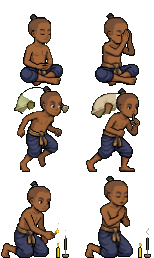
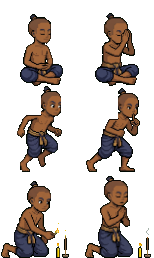
คำอธิบายอาชีพแสดงเฉพาะยศที่เป็นอยู่และยศถัดไป, ลบกระสอบที่ติดมาในท่าย่อง
Claude-Session: https://claude.ai/code/session_01VyskKiPGXbguATD8hfHETA

diff --git a/src/game/main.ts b/src/game/main.ts
@@ -416,28 +416,23 @@ function showAway() {
   awayInfo = null;
 }
 
-/** แผ่นอาชีพ: คำอธิบายสาย + ทุกยศพร้อมคำอธิบาย (สลับทางสว่าง/มืด) */
-function careerSheet(k: string, choose = true, side: 'light' | 'dark' = 'light'): string {
+/** แผ่นอาชีพ: คำอธิบายสาย + ยศที่เป็นอยู่ (และยศถัดไป) — ตอนเลือกอาชีพแสดงยศแรก */
+function careerSheet(k: string, choose = true): string {
   const c = careerOf(k), L = g.life, mine = L.career === k;
-  const myTrack = mine ? (L.track ?? 'light') : null;
-  const rank = (lv: number, tr: 'light' | 'dark') => {
-    const [name, desc] = splitTitle(E.careerTitle(k, lv, tr));
-    const cur = mine && L.level === lv && (lv < B.lightDarkLevel || myTrack === tr);
-    const got = g.collection.titles.includes(`${k}|${lv < B.lightDarkLevel ? 'ร่วม' : tr}|${lv}`) || (mine && lv === 0);
-    return `<li class="${cur ? 'on' : ''} ${got ? 'got' : ''}"><small>${lv === 0 ? 'เริ่ม' : `ขั้น ${th(lv)}`}${cur ? ' · ตอนนี้' : got ? ' · เคยได้' : ''}</small><b>${esc(name)}</b>${desc ? `<p>${esc(desc)}</p>` : ''}</li>`;
+  const rank = (lv: number, label: string, on = false) => {
+    const [name, desc] = splitTitle(E.careerTitle(k, lv, L.track));
+    return `<li class="${on ? 'on' : ''}"><small>${label}</small><b>${esc(name)}</b>${desc ? `<p>${esc(desc)}</p>` : ''}</li>`;
   };
-  const ranks = [0, 1].map(lv => rank(lv, side)).join('') + `<li class="fork">${icon(side === 'light' ? 'star' : 'hood', 16)} แยกทาง${side === 'light' ? 'สว่าง' : 'มืด'}ตั้งแต่ขั้น ${th(B.lightDarkLevel)}</li>`
-    + Array.from({ length: B.maxLevel - B.lightDarkLevel + 1 }, (_, i) => rank(B.lightDarkLevel + i, side)).join('');
-  const tab = (sd: 'light' | 'dark', label: string) => `<button class="ctab ${side === sd ? 'on' : ''}" data-act="careerinfo" data-v="${k}|${sd}">${label}</button>`;
+  const ranks = mine
+    ? rank(L.level, `ยศที่เป็นอยู่ · ขั้น ${th(L.level)}`, true) + (L.level < B.maxLevel && (L.level + 1 < B.lightDarkLevel || L.track) ? rank(L.level + 1, `ยศถัดไป · ขั้น ${th(L.level + 1)}`) : '')
+    : rank(0, 'ยศแรกเมื่อเข้ารับราชการ', true);
   return `<button class="close" data-act="close" aria-label="ปิด">${icon('cross', 16)}</button>
     <div class="head">${icon(CAREER_ICON[k] ?? 'star', 48)}<div><div class="eyebrow">${esc(c.fullname)}</div><h2>${esc(k)}</h2></div></div>
     ${c.desc ? `<p>${esc(c.desc)}</p>` : ''}
     <div class="effs"><span>${icon(STAT_ICON[c.gateStat], 18)}หลัก ${esc(statName(c.gateStat))}</span><span>${icon(STAT_ICON[c.secondaryStat], 18)}รอง ${esc(statName(c.secondaryStat))}</span></div>
-    ${choose ? `<button class="gbtn red" data-act="career" data-v="${k}">${icon('seal', 20)}เข้ารับราชการเป็น${esc(k)}</button>
-    <p class="muted">เลือกแล้วเปลี่ยนไม่ได้ในชาตินี้ · ชาติต่อไปอาชีพเดิมจะเก่งเร็วขึ้น</p>` : ''}
-    <h3 class="sh">ยศทั้งหมด ${th(B.maxLevel + 1)} ขั้น</h3>
-    <div class="ctabs">${tab('light', 'ทางสว่าง')}${tab('dark', 'ทางมืด')}</div>
-    <ul class="ladder ranks">${ranks}</ul>`;
+    <ul class="ladder ranks">${ranks}</ul>
+    ${choose ? `<p class="muted">เลือกแล้วเปลี่ยนไม่ได้ในชาตินี้ · ชาติต่อไปอาชีพเดิมจะเก่งเร็วขึ้น</p>
+    <button class="gbtn red" data-act="career" data-v="${k}">${icon('seal', 20)}เข้ารับราชการเป็น${esc(k)}</button>` : ''}`;
 }
 
 function reignSheet(): string {
@@ -516,9 +511,7 @@ document.addEventListener('click', ev => {
       S.playToggle(i < 0); E.setTrain(g, cur); break;
     }
     case 'child': if (g.life.childJob !== v) S.playSelect(); E.chooseChildJob(g, v); break;
-    case 'careerinfo': { S.playOpen(); const [ck, sd] = v.split('|'); const keep = $('modal-body').scrollTop;
-      openModal(careerSheet(ck, !g.life.career, (sd as 'light' | 'dark') ?? (g.life.career === ck ? g.life.track ?? 'light' : 'light')));
-      if (sd) $('modal-body').querySelector('.ctabs')?.scrollIntoView({ block: 'start' }); void keep; return; }
+    case 'careerinfo': S.playOpen(); openModal(careerSheet(v, !g.life.career)); return;
     case 'reign': S.playOpen(); openModal(reignSheet()); return;
     case 'coll': S.playOpen(); openModal(collSheet(v)); return;
     case 'career': E.chooseCareer(g, v); S.playGong(); closeModal(); toast(`เข้ารับราชการเป็น${splitTitle(E.careerTitle(v, 0, null))[0]}`, CAREER_ICON[v]); break;

diff --git a/tools/art/fix_a3_sneak.py b/tools/art/fix_a3_sneak.py
@@ -1,0 +1,23 @@
+# ลบกระสอบที่ Gemini เผลอวาดติดมาในท่าย่อง (A3 แถวกลาง) — ให้ไม่ดูซ้อนกับท่าแบกกระสอบ
+import sys
+from PIL import Image
+p = sys.argv[1]
+im = Image.open(p).convert('RGBA'); px = im.load()
+fw, fh = im.width // 2, im.height // 3
+y0 = fh  # แถวท่าย่อง
+def clear(x0, x1, ya, yb, col):
+    for y in range(y0 + ya, y0 + yb):
+        for x in range(col * fw + x0, col * fw + x1):
+            px[x, y] = (0, 0, 0, 0)
+# เฟรม 1: กระสอบทางซ้ายหัว, เชือกโค้งเหนือหัว, กำปั้นข้างหู
+clear(0, 41, 0, 29, 0); clear(0, 44, 0, 4, 0); clear(61, fw, 0, 27, 0)
+# เฟรม 2: กระสอบทางซ้ายหัว
+clear(0, 41, 0, 33, 1)
+# เติมเส้นขอบตรงรอยตัด (ไหล่/หลังที่เคยถูกกระสอบบัง)
+OUT = (30, 19, 12, 255)
+for col, (x1, yb) in ((0, (41, 29)), (1, (41, 33))):
+    for x in range(col * fw, col * fw + x1 + 1):
+        for y in range(y0 + yb - 1, y0 + yb + 3):
+            if px[x, y][3] and (px[x, y - 1][3] == 0 or (x > col * fw and px[x - 1, y][3] == 0)):
+                px[x, y] = OUT
+im.save(p)
